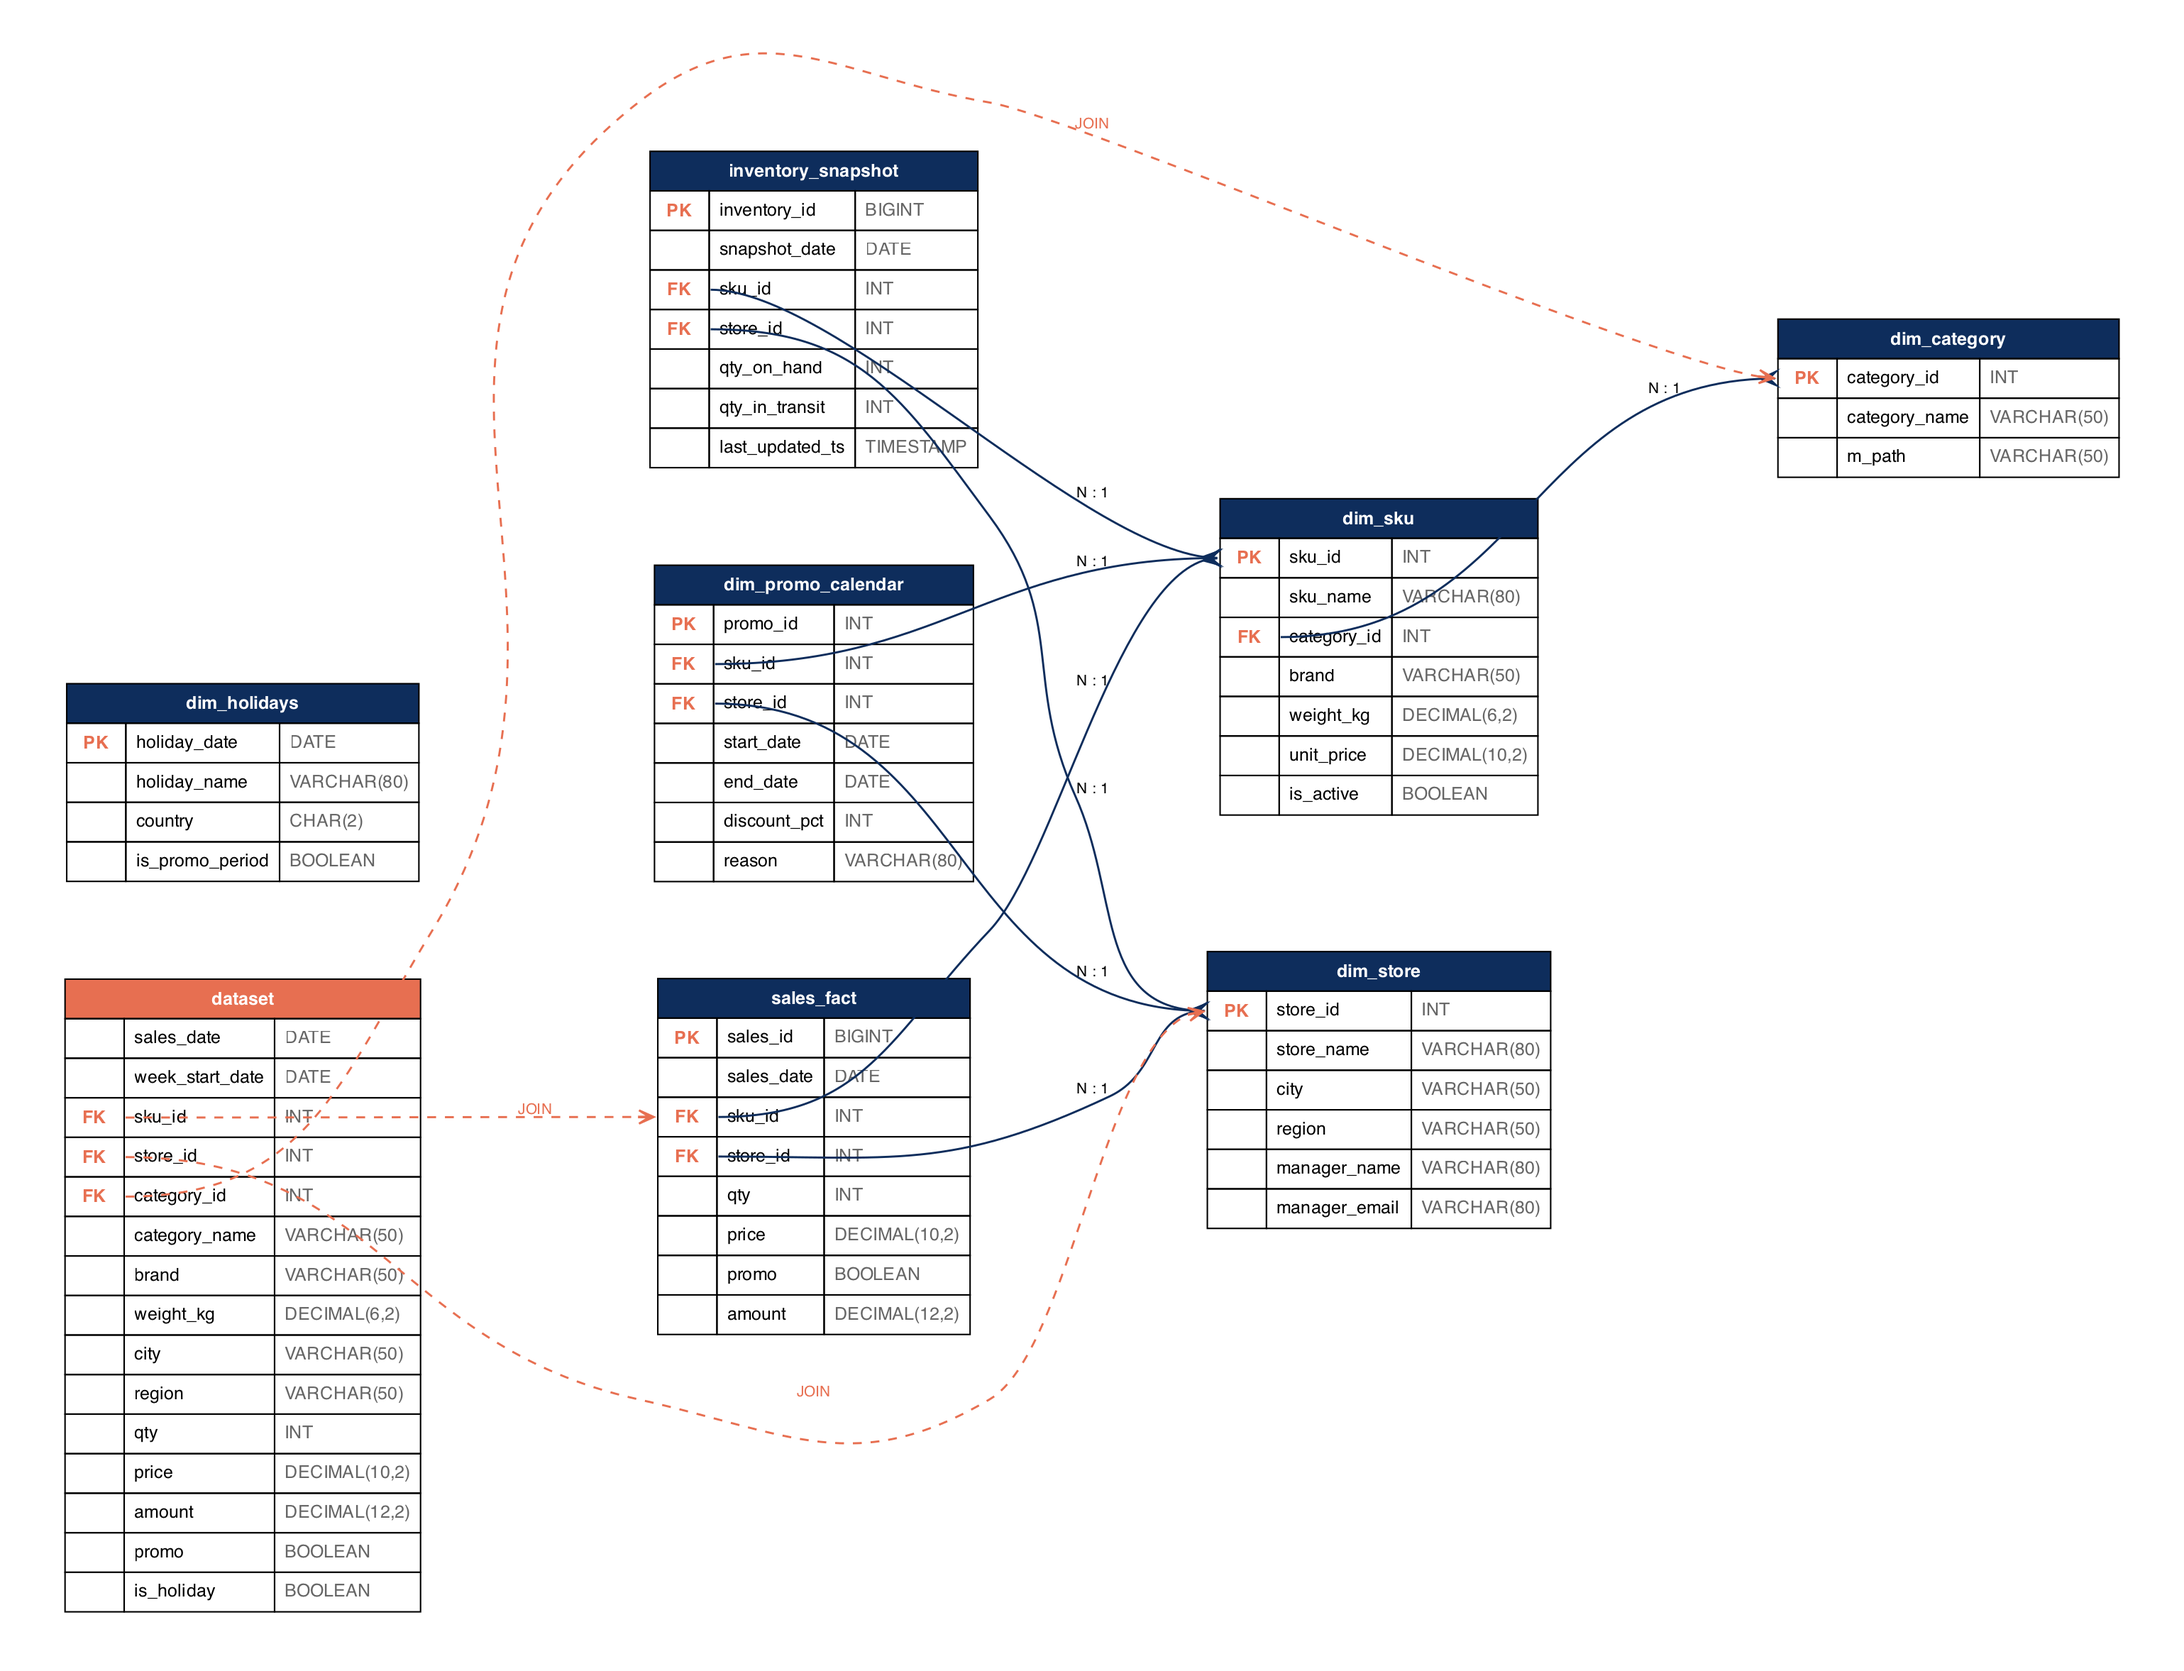
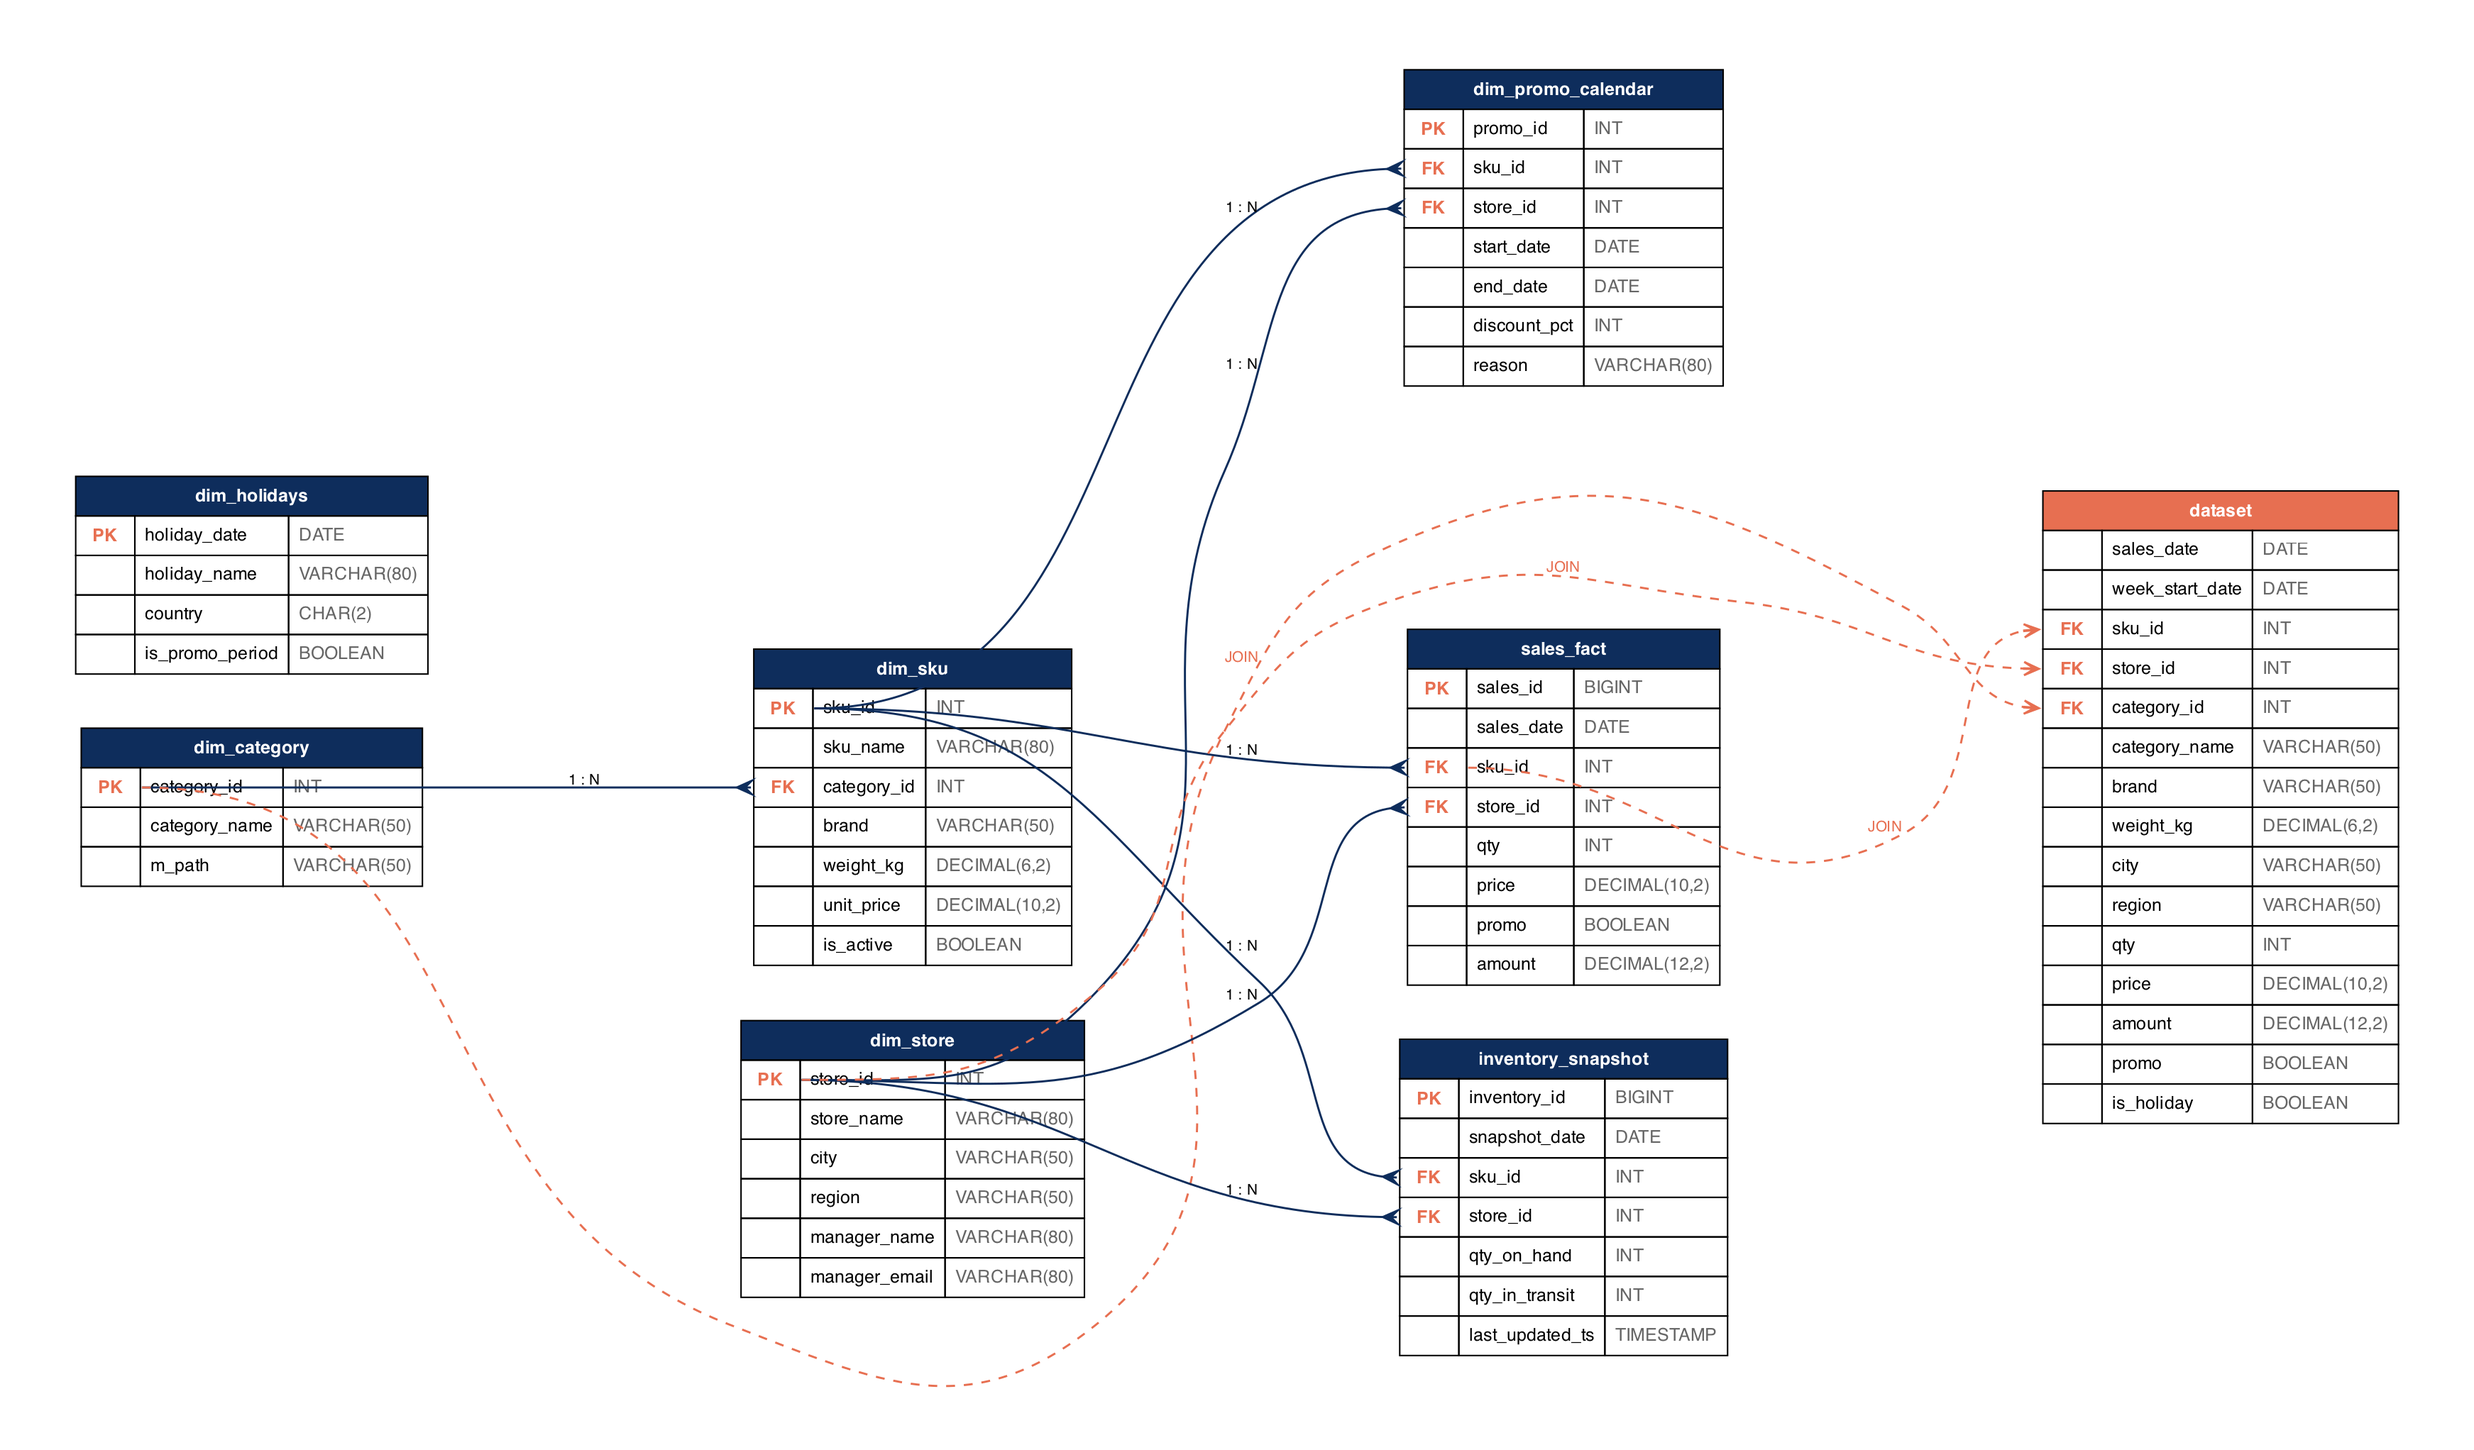
docs(schema): fix layout — 4 ranks left to right, JOIN edges decoupled

diff --git a/scripts/build_schema_png.py b/scripts/build_schema_png.py
@@ -127,7 +127,7 @@ def html_label(name: str, cols: list[tuple[str, str, str]], header_color: str) -
 dot_lines = [
     'digraph DB {',
     '  rankdir=LR;',
-    '  graph [bgcolor="white", pad="0.5", nodesep="0.8", ranksep="1.6", splines="spline", concentrate=false];',
+    '  graph [bgcolor="white", pad="0.6", nodesep="0.4", ranksep="2.4", splines="spline", overlap=false];',
     '  node [shape=plaintext, fontname="Helvetica", fontsize=12];',
     '  edge [fontname="Helvetica", fontsize=10, color="' + NAVY + '", penwidth=1.4];',
     '',
@@ -137,17 +137,40 @@ for name, cols in TABLES.items():
     color = ACCENT if name == "dataset" else NAVY
     dot_lines.append(f'  {name} [label={html_label(name, cols, color)}];')
 
+# Фіксуємо 4 колонки шляхом штучних "ranks"
 dot_lines.append('')
+dot_lines.append('  // Layout: 4 ranks left → right')
+dot_lines.append('  { rank=same; dim_category; dim_holidays; }')
+dot_lines.append('  { rank=same; dim_sku; dim_store; }')
+dot_lines.append('  { rank=same; sales_fact; inventory_snapshot; dim_promo_calendar; }')
+dot_lines.append('  { rank=same; dataset; }')
+
+dot_lines.append('')
+dot_lines.append("  // Невидимі edges для ранжування зліва направо")
+dot_lines.append('  dim_category -> dim_sku [style=invis];')
+dot_lines.append('  dim_sku -> sales_fact [style=invis];')
+dot_lines.append('  sales_fact -> dataset [style=invis];')
+
+dot_lines.append('')
+dot_lines.append("  // FK-зв'язки (від parent до child, з відображенням кардинальності 1 : N)")
+# Edges йдуть DIM → FACT для коректного layout LR.
+# Стрілки малюємо обернено: parent → child з "crow" на боці child.
 for src_t, src_c, dst_t, dst_c in EDGES:
+    # src_t = child (FK), dst_t = parent (PK) — інвертуємо для розкладки
     dot_lines.append(
-        f'  {src_t}:{src_c}:e -> {dst_t}:{dst_c}:w '
-        f'[label="N : 1", arrowhead=crow, arrowtail=none];'
+        f'  {dst_t}:{dst_c}:e -> {src_t}:{src_c}:w '
+        f'[label="1 : N", arrowhead=crow, arrowtail=none];'
     )
 
+dot_lines.append('')
+dot_lines.append("  // JOIN-зв'язки до dataset — constraint=false, не впливають на layout")
 for src_t, src_c, dst_t, dst_c in JOIN_EDGES:
+    # src_t = dataset (right), dst_t = source table (left)
+    # Едж від лівої таблиці до dataset
     dot_lines.append(
-        f'  {src_t}:{src_c}:e -> {dst_t}:{dst_c}:w '
-        f'[label="JOIN", color="{ACCENT}", fontcolor="{ACCENT}", style="dashed", arrowhead=open];'
+        f'  {dst_t}:{dst_c}:e -> {src_t}:{src_c}:w '
+        f'[label="JOIN", color="{ACCENT}", fontcolor="{ACCENT}", style="dashed", '
+        f'arrowhead=open, constraint=false];'
     )
 
 dot_lines.append('}')
